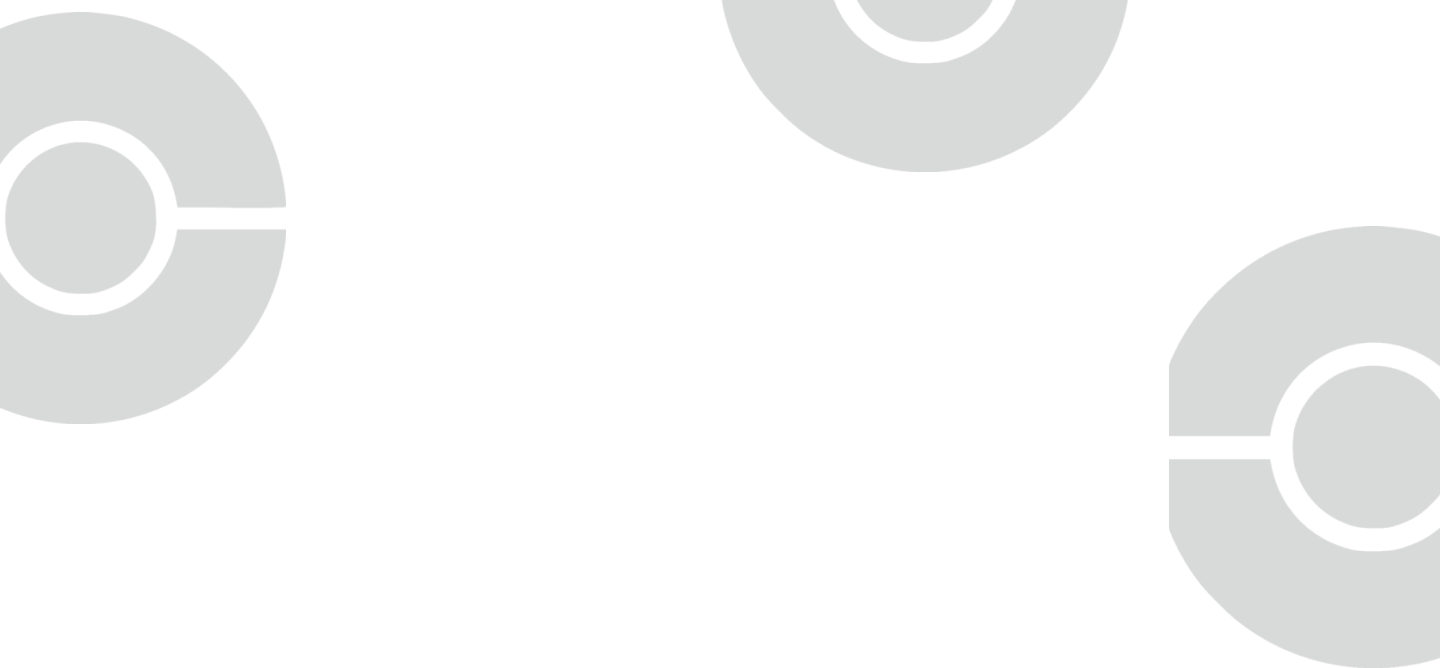
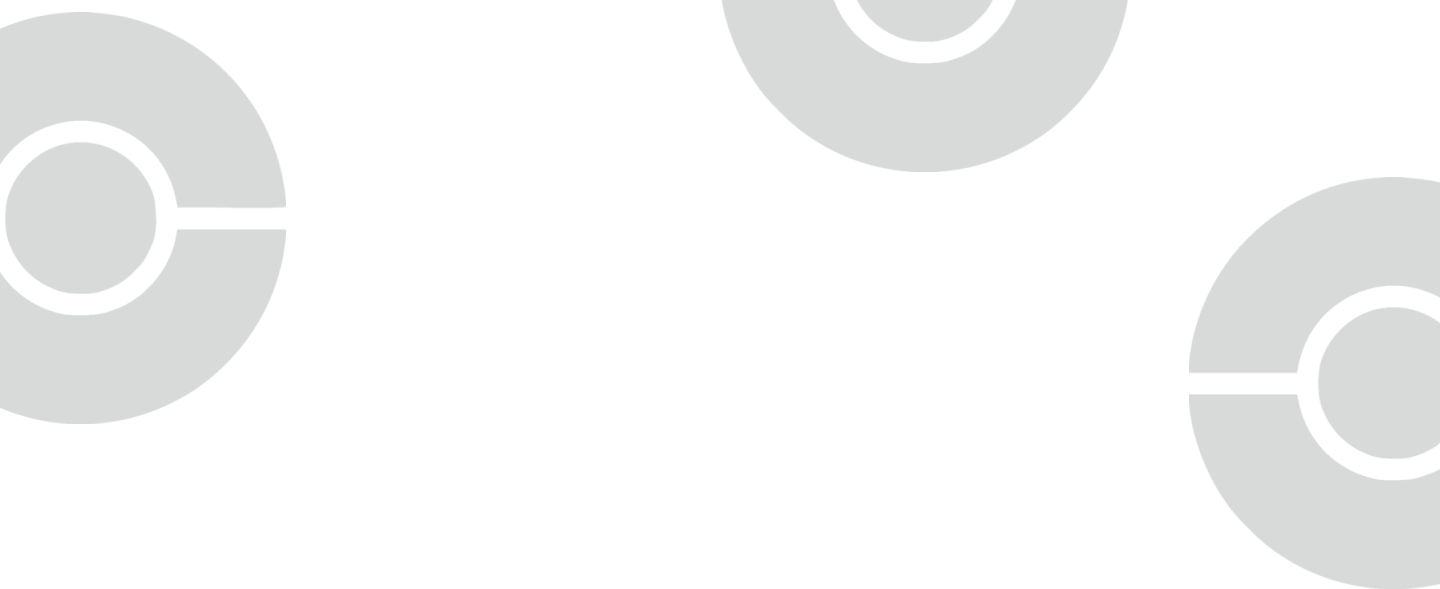
finish ui auth

diff --git a/src/styles.scss b/src/styles.scss
@@ -172,15 +172,15 @@ body {
   background-size: contain;
 }
 
-.bg .img {
-  background-image: url('/assets/images/circle.png');
-  background-repeat: no-repeat;
-  width: 350px;
-  background-size: contain;
-  z-index: -1;
-  position: absolute;
-  opacity: 0.5;
-}
+//.bg .img {
+//  background-image: url('/assets/images/Group.png');
+//  background-repeat: no-repeat;
+//  width: 350px;
+//  background-size: contain;
+//  z-index: -1;
+//  position: absolute;
+//  opacity: 0.5;
+//}
 
 .container {
   width: 100%;
@@ -195,6 +195,12 @@ body {
   align-items: center;
   margin-top: 40px;
   margin-bottom: 50px;
+  .navbar-item{
+    display: flex;
+    align-items: center;
+    gap: 20px;
+    //width: 50%;
+  }
 }
 
 .header {
@@ -469,7 +475,7 @@ mat-paginator {
   display: none;
 }
 .mat-mdc-text-field-wrapper{
-  height: 50px;
+  height: 55px !important;
 }
 
 .custom-pagination {
@@ -508,4 +514,7 @@ mat-paginator {
     border: 1px solid #ccc;
     font-size: 14px;
   }
+}
+.mdc-text-field--outlined .mat-mdc-form-field-infix, .mdc-text-field--no-label .mat-mdc-form-field-infix{
+  padding-top: 12px !important;
 }

diff --git a/src/app/component/navbar/navbar.component.ts b/src/app/component/navbar/navbar.component.ts
@@ -2,7 +2,8 @@ import { Component } from '@angular/core';
 import { MatIcon } from '@angular/material/icon';
 import { LanguageSwitcherComponent } from '../language-switcher/language-switcher.component';
 import { RouterOutlet } from '@angular/router';
-import { CookieService } from 'ngx-cookie-service';  // Импортируем CookieService
+import { CookieService } from 'ngx-cookie-service';
+import {MatButton} from '@angular/material/button';  // Импортируем CookieService
 
 @Component({
   selector: 'app-navbar',
@@ -10,7 +11,8 @@ import { CookieService } from 'ngx-cookie-service';  // Импортируем C
   imports: [
     MatIcon,
     LanguageSwitcherComponent,
-    RouterOutlet
+    RouterOutlet,
+    MatButton
   ],
   templateUrl: './navbar.component.html',
   styleUrls: ['./navbar.component.scss']

diff --git a/src/app/app.routes.ts b/src/app/app.routes.ts
@@ -1,8 +1,12 @@
 import { Routes } from '@angular/router';
 import {PokemonComponent} from "./pages/pokemon/pokemon.component";
+import {LoginComponent} from "./pages/login/login.component";
+import {RegisterComponent} from "./pages/register/register.component";
 import {PokemonIdComponent} from "./pages/pokemon-id/pokemon-id.component";
 
 export const routes: Routes = [
-  {path: '', component: PokemonComponent},
-  { path: 'pokemon/:name', component: PokemonIdComponent }
+  {path: '', component: LoginComponent},
+  {path: 'register', component: RegisterComponent},
+  {path: 'pokemon', component: PokemonComponent},
+  {path: 'pokemon/:name', component: PokemonIdComponent }
 ];

diff --git a/src/app/component/navbar/navbar.component.html b/src/app/component/navbar/navbar.component.html
@@ -1,7 +1,13 @@
 <nav class="navbar">
   <img src="assets/images/logo.png" alt="Pokemon Logo" class="logo">
-  <mat-icon class="theme-icon" (click)="toggleTheme()">
-    {{ isDarkTheme ? 'brightness_2' : 'wb_sunny' }}
-  </mat-icon>
-  <app-language-switcher></app-language-switcher>
+  <div class="navbar-item">
+    <mat-icon class="theme-icon" (click)="toggleTheme()">
+      {{ isDarkTheme ? 'brightness_2' : 'wb_sunny' }}
+    </mat-icon>
+    <app-language-switcher></app-language-switcher>
+    <button mat-raised-button color="primary">
+      <mat-icon>logout</mat-icon>
+      Sign Out
+    </button>
+  </div>
 </nav>

diff --git a/src/app/component/navbar/navbar.component.scss b/src/app/component/navbar/navbar.component.scss
@@ -1,0 +1,11 @@
+.mat-mdc-raised-button:not(:disabled){
+  background-color: #ff5f5f;
+  box-shadow: 0 2px 4px rgba(0, 0, 0, 0.13);
+  border: none;
+  padding: 24px 20px;
+  border-radius: 5px;
+}
+.navbar{
+  width: 1200px;
+  margin: auto;
+}
